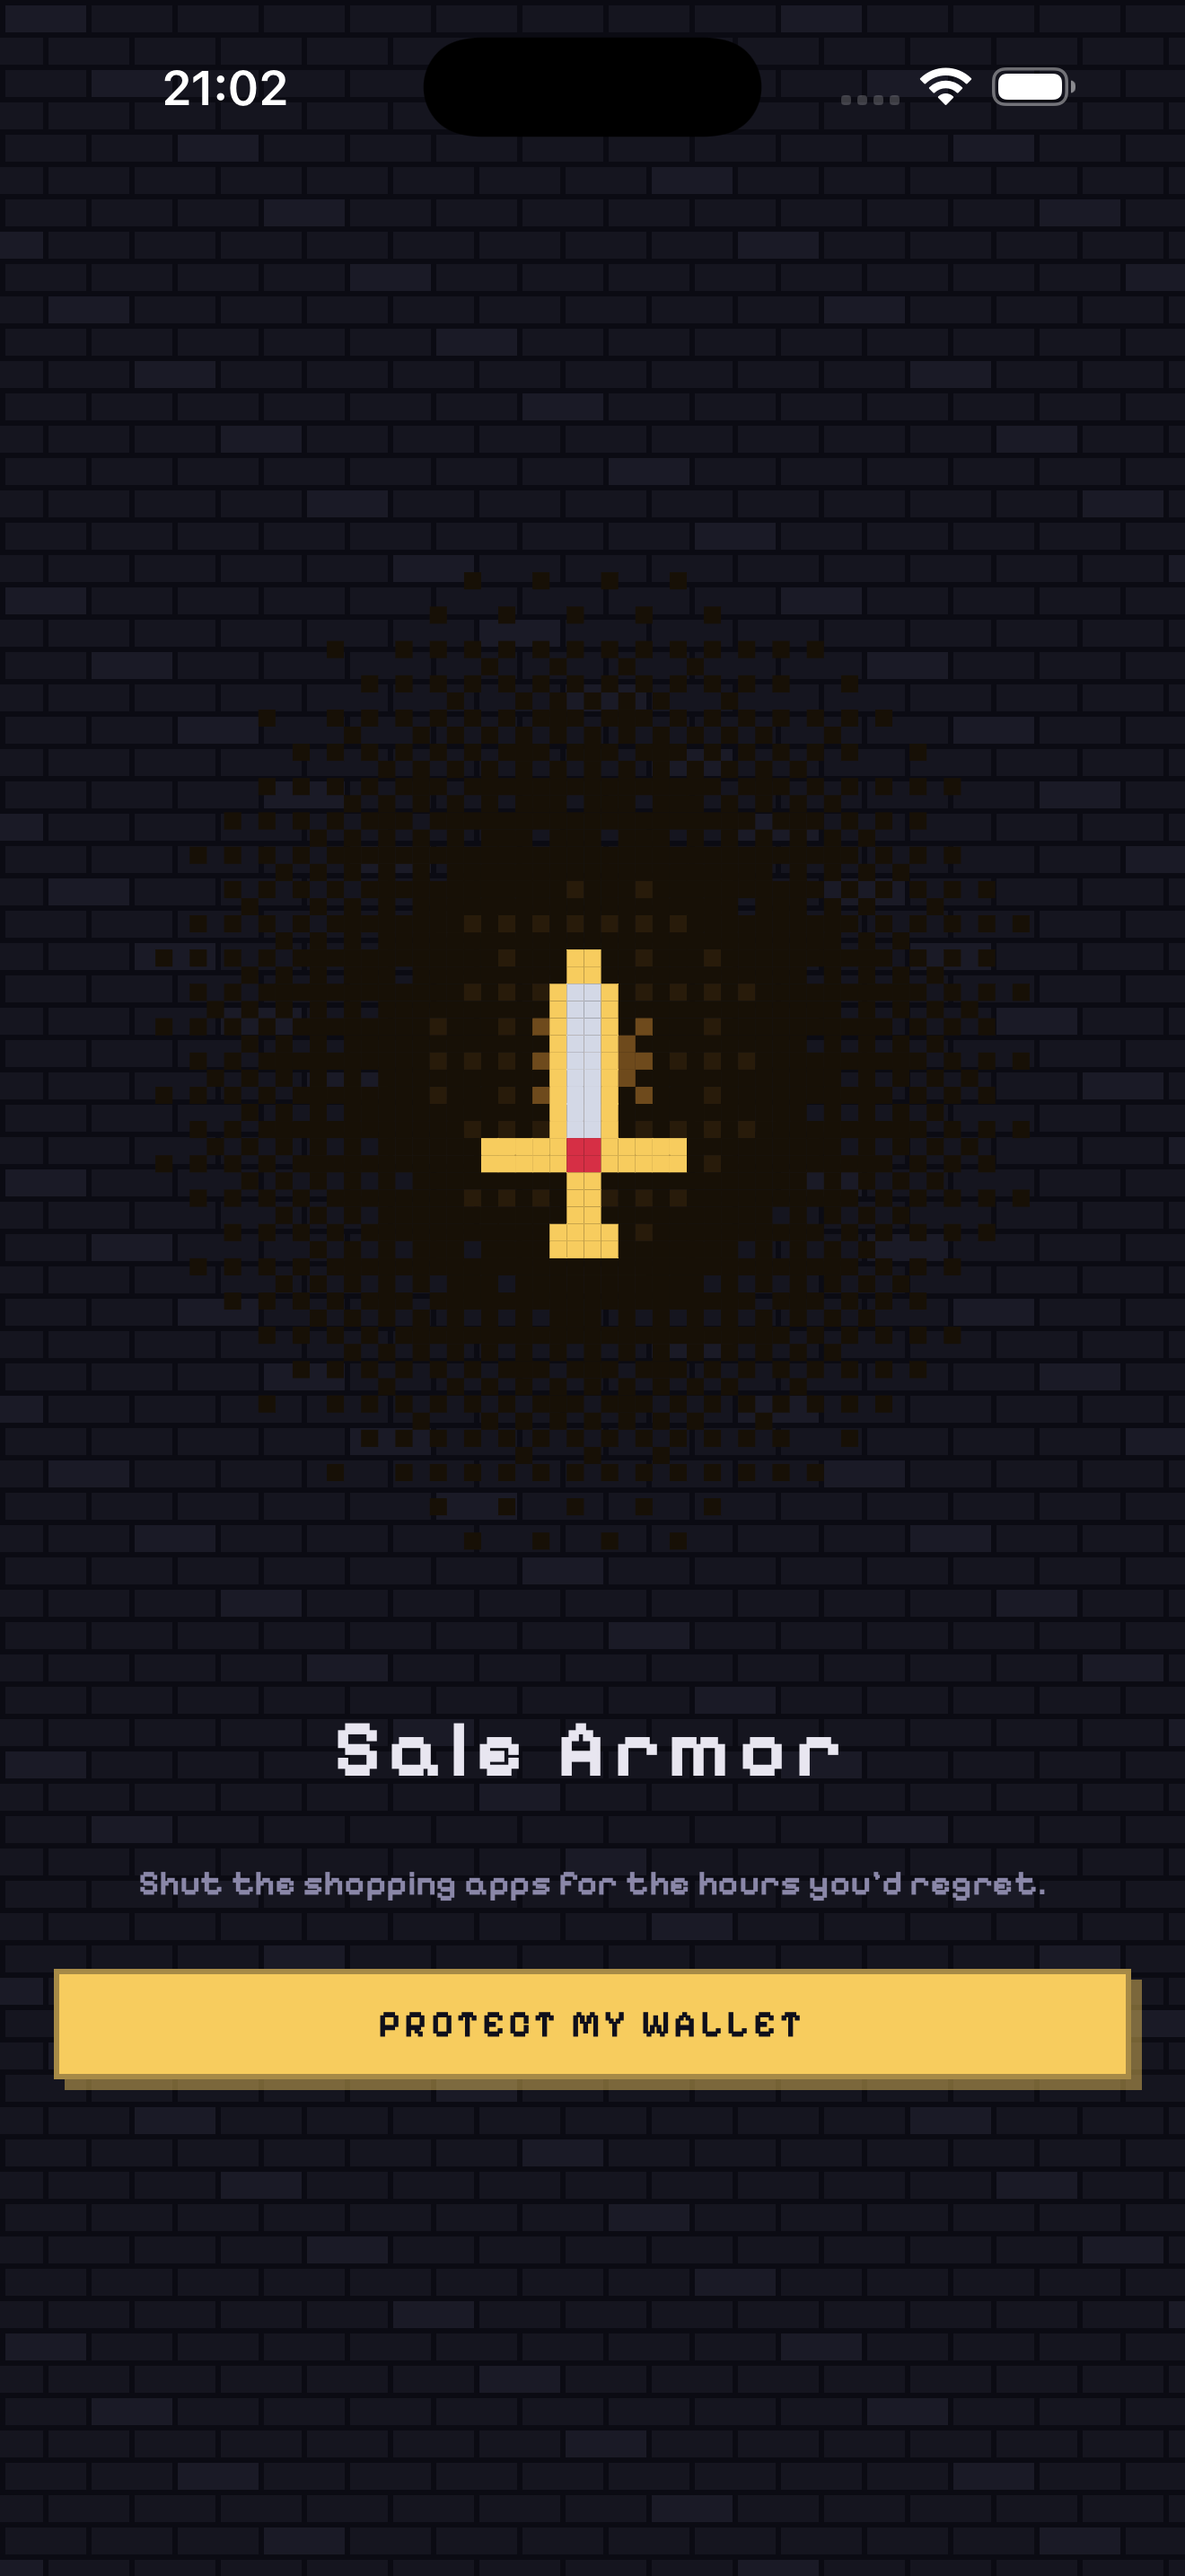
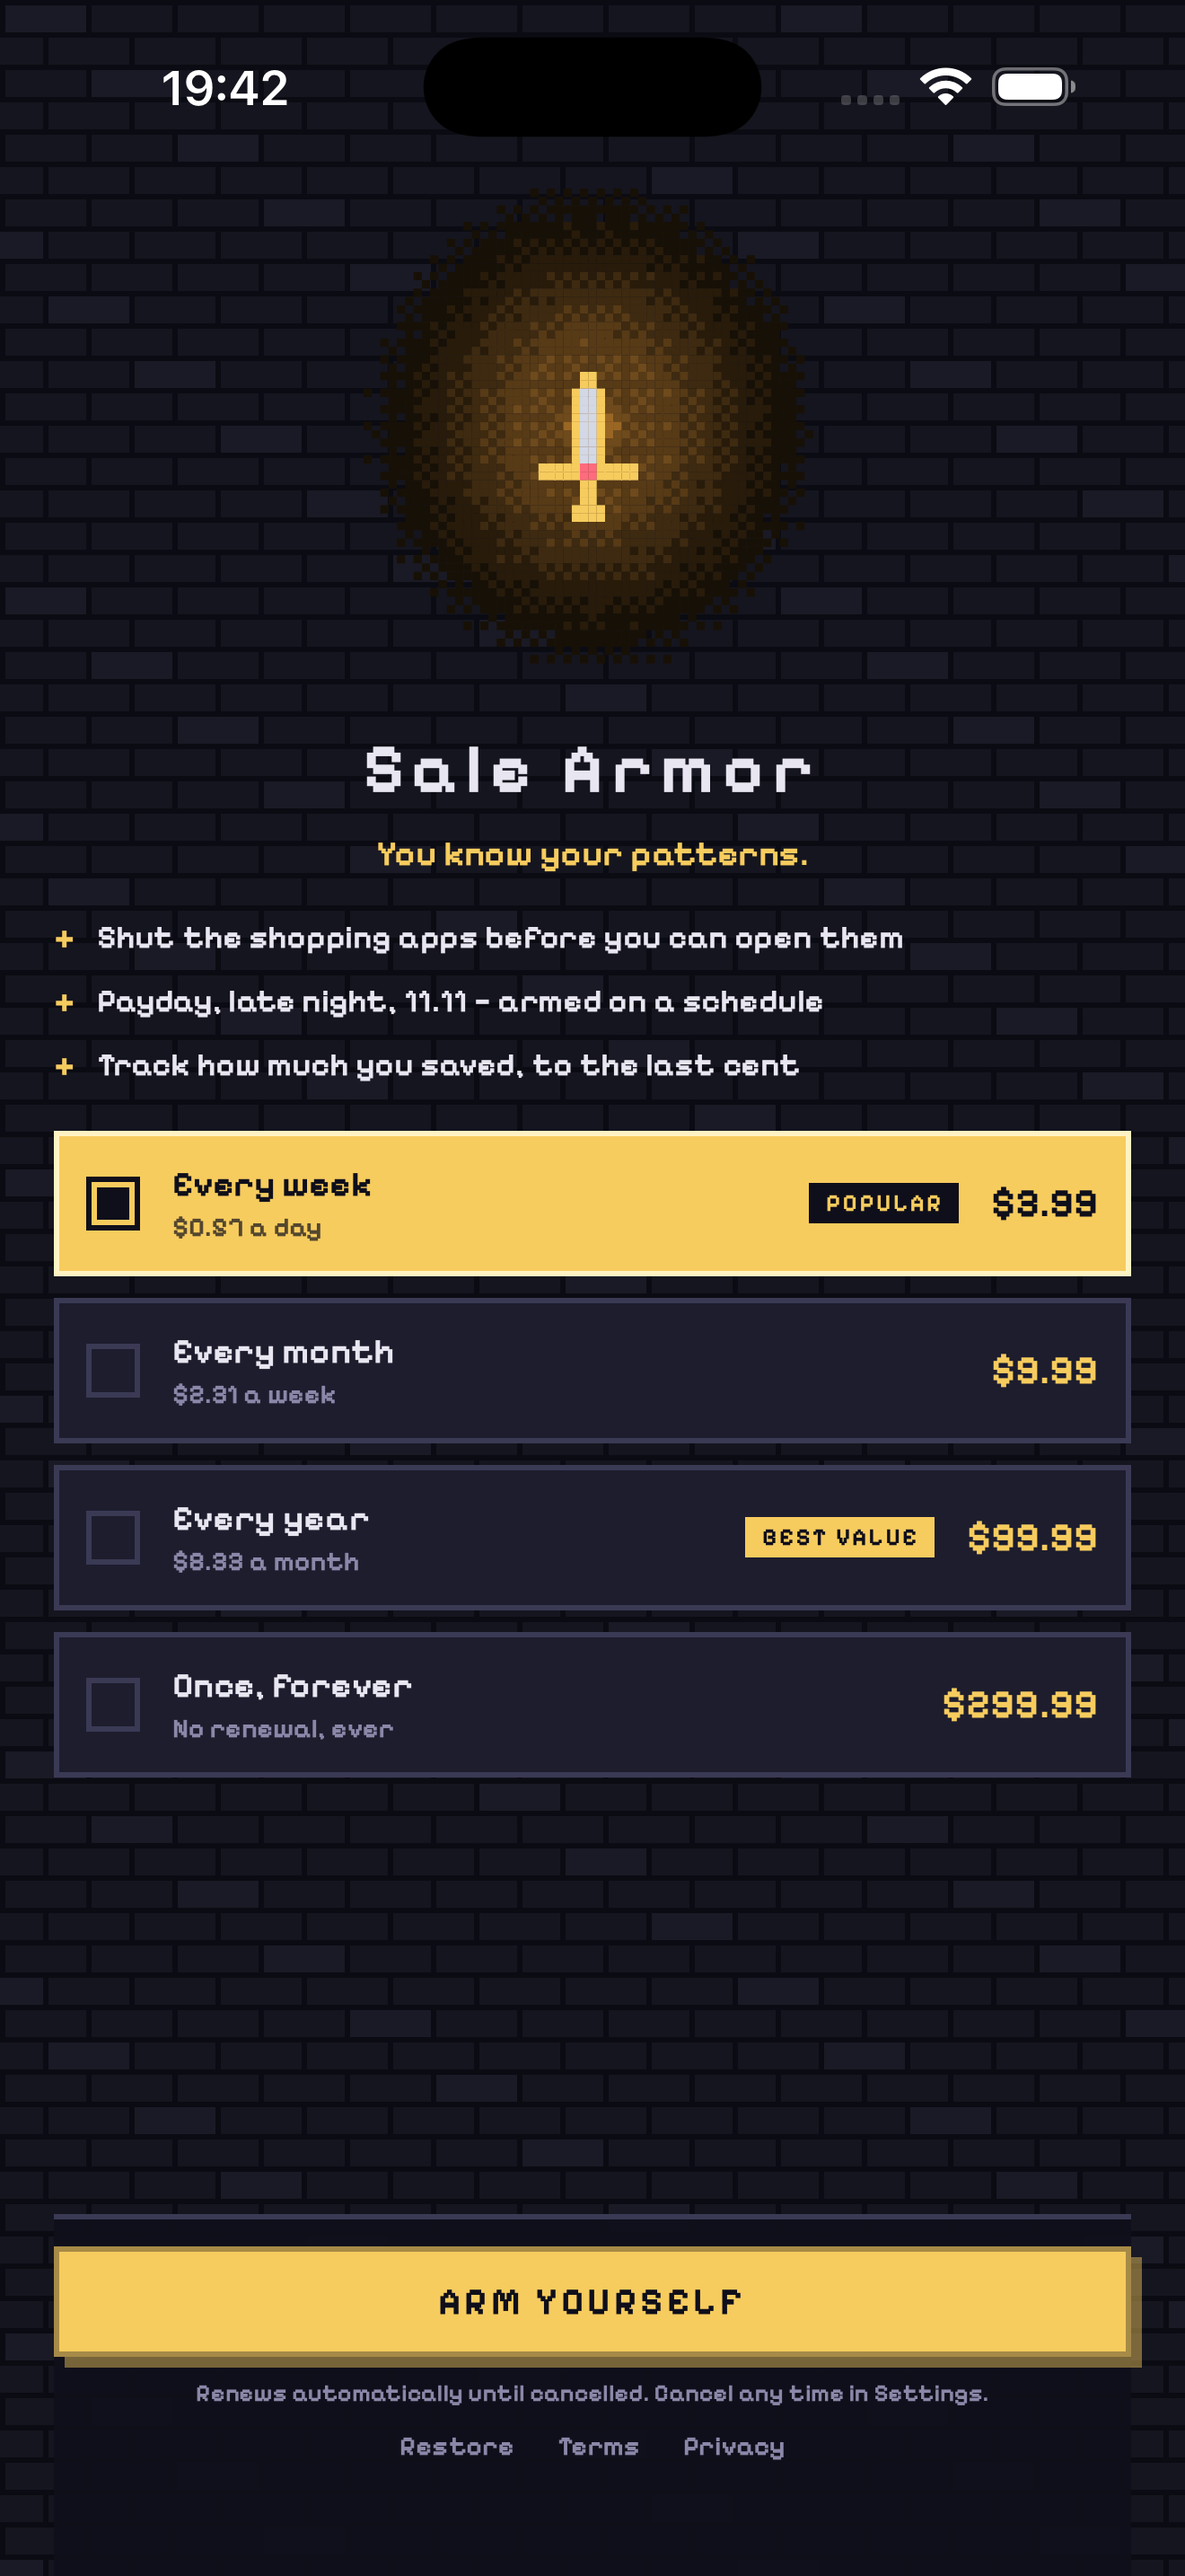
Upload the App Store listing screenshots and metadata
Description, promotional text, keywords, support and marketing URLs are set, and
four 6.9-inch screenshots are attached in reading order — guard first, money not
spent second, since those are the two visible without swiping.

whatsNew is refused on a first version, which is expected.

diff --git a/tools/upload_screenshots.py b/tools/upload_screenshots.py
@@ -1,0 +1,79 @@
+#!/usr/bin/env python3
+"""
+Upload the App Store listing screenshots.
+
+Same three-step reservation as the review screenshot, but into a *set* — Apple groups screenshots
+by display size, and the 6.9-inch set is the only one required now that it covers every current
+iPhone. Order matters: the first two are what people see without swiping, so the guard screen and
+the money-not-spent screen lead.
+
+    python3 tools/upload_screenshots.py
+"""
+import hashlib
+import urllib.error
+import urllib.request
+
+import asc
+
+LOCALIZATION = "5692efd7-5d27-495e-b48e-ede174ea0ec7"
+DISPLAY_TYPE = "APP_IPHONE_67"   # 6.7/6.9-inch, which 1320x2868 belongs to
+
+# Ordered as they will appear. The paywall is last: it is the ask, not the pitch.
+SCREENSHOTS = [
+    "screenshots/02-arm.png",
+    "screenshots/04-wishlist.png",
+    "screenshots/03-armed.png",
+    "screenshots/01-guard.png",
+]
+
+
+def reserve_set():
+    status, data = asc.call("GET", f"/v1/appStoreVersionLocalizations/{LOCALIZATION}/appScreenshotSets")
+    for existing in data.get("data", []):
+        if existing["attributes"]["screenshotDisplayType"] == DISPLAY_TYPE:
+            return existing["id"]
+
+    status, data = asc.call("POST", "/v1/appScreenshotSets", {
+        "data": {"type": "appScreenshotSets",
+                 "attributes": {"screenshotDisplayType": DISPLAY_TYPE},
+                 "relationships": {"appStoreVersionLocalization": {
+                     "data": {"type": "appStoreVersionLocalizations", "id": LOCALIZATION}}}}
+    })
+    return data["data"]["id"] if status == 201 else None
+
+
+def upload(set_id, path):
+    data = open(path, "rb").read()
+    status, created = asc.call("POST", "/v1/appScreenshots", {
+        "data": {"type": "appScreenshots",
+                 "attributes": {"fileName": path.split("/")[-1], "fileSize": len(data)},
+                 "relationships": {"appScreenshotSet": {
+                     "data": {"type": "appScreenshotSets", "id": set_id}}}}
+    })
+    if status != 201:
+        return f"reserve failed {status}"
+
+    screenshot_id = created["data"]["id"]
+    for operation in created["data"]["attributes"]["uploadOperations"]:
+        chunk = data[operation["offset"]:operation["offset"] + operation["length"]]
+        request = urllib.request.Request(operation["url"], method=operation["method"], data=chunk)
+        for header in operation["requestHeaders"]:
+            request.add_header(header["name"], header["value"])
+        try:
+            urllib.request.urlopen(request)
+        except urllib.error.HTTPError as error:
+            return f"upload failed {error.code}"
+
+    status, _ = asc.call("PATCH", f"/v1/appScreenshots/{screenshot_id}", {
+        "data": {"type": "appScreenshots", "id": screenshot_id,
+                 "attributes": {"uploaded": True,
+                                "sourceFileChecksum": hashlib.md5(data).hexdigest()}}
+    })
+    return "uploaded" if status == 200 else f"commit failed {status}"
+
+
+if __name__ == "__main__":
+    set_id = reserve_set()
+    print("set:", set_id)
+    for path in SCREENSHOTS:
+        print(f"  {path.split('/')[-1]:20}", upload(set_id, path))
